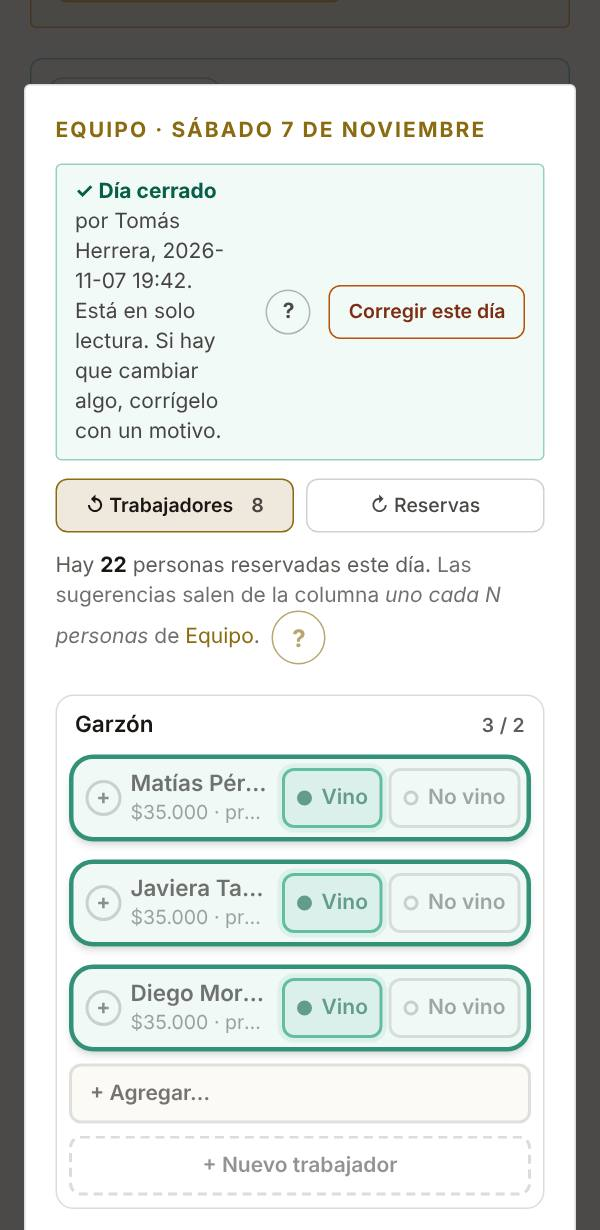
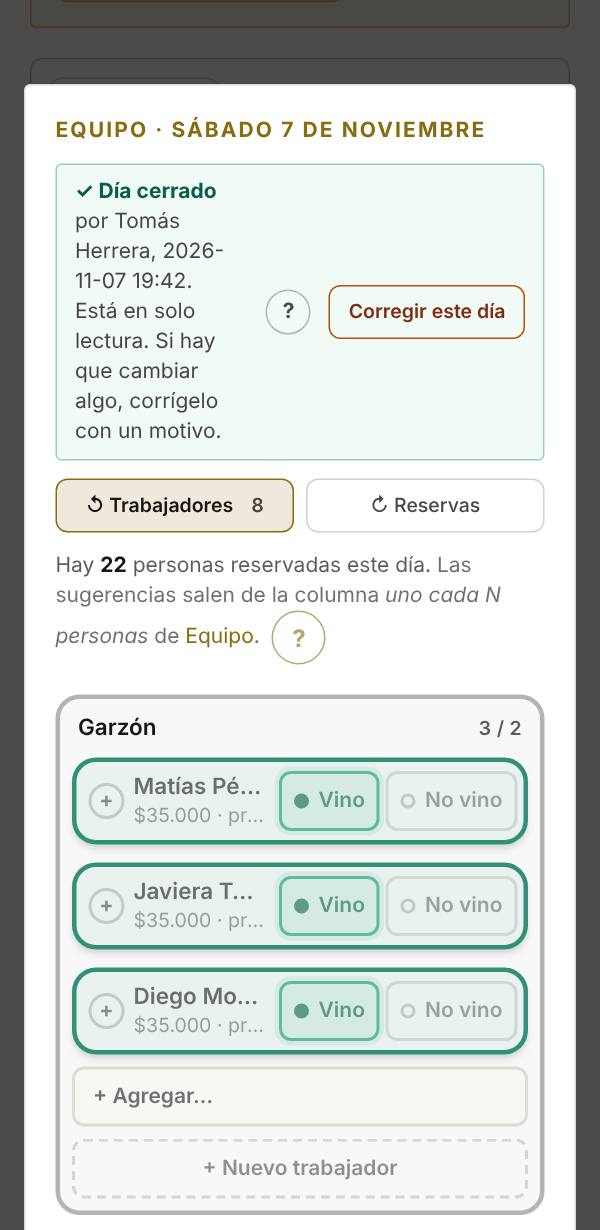
Los puestos de la ventana del equipo con el marco de grupo, y su cara Reservas con la tarjeta de las listas
marcoGrupo: 3px, más claro que la tarjeta y con el fondo apenas teñido, en
ámbar si falta gente. Es la ventana que se abre desde Turnos, Reservas y el
día. Las reservas de su otra cara usan marcoTarjeta, verde si vino y roja si
no vino.

Claude-Session: https://claude.ai/code/session_01SbCpLXRLiAYNdagAaPDDb9

Changed region(s): [[0.09, 0.5561, 0.93, 0.9886]]

diff --git a/panel/src/components/ReservasDelDia.tsx b/panel/src/components/ReservasDelDia.tsx
@@ -31,6 +31,7 @@ import { POR_DEFECTO_MENUS, type Menu } from '@/lib/menus';
 import Asistencia from './Asistencia';
 import PastillaPago from './PastillaPago';
 import IngresoFudo from './IngresoFudo';
+import { LISTA_TARJETAS, marcoTarjeta } from './TarjetaLista';
 
 /**
  * Un azulejo: el número grande arriba y qué es debajo. La misma forma que
@@ -207,12 +208,15 @@ export default function ReservasDelDia({
               botones compartieran fila con el nombre, el largo del nombre
               decidiría dónde quedan. */}
           <fieldset disabled={modo === 'bloqueado'} className="m-0 min-w-0 border-0 p-0">
-          <ul className="mt-2 space-y-2">
+          <ul className={`mt-2 ${LISTA_TARJETAS}`}>
             {delDia.map((r) => {
               const libero = !ocupaLugar(r);
               return (
+                // La misma tarjeta de las demás listas (`TarjetaLista`):
+                // verde si vino, roja si no vino.
                 <li key={r.fila}
-                  className={`rounded border border-hueso/15 bg-panel p-3 ${
+                  className={`${marcoTarjeta(false, r.asistencia === ASISTENCIA.vino ? 'verde'
+                    : r.asistencia === ASISTENCIA.noVino ? 'rojo' : 'normal', true)} p-3 ${
                     libero ? 'opacity-50' : ''}`}>
                   <div className="flex flex-wrap items-baseline justify-between gap-x-3">
                     <span className={`font-semibold ${libero ? 'line-through' : ''}`}>

diff --git a/panel/src/components/EquipoDialogo.tsx b/panel/src/components/EquipoDialogo.tsx
@@ -16,7 +16,7 @@
  * llamada directa a la API tiene que obedecer la misma regla.
  */
 import { useMemo, useState } from 'react';
-import { LISTA_TARJETAS, SignoAbrir, marcoTarjeta } from './TarjetaLista';
+import { LISTA_TARJETAS, SignoAbrir, marcoGrupo, marcoTarjeta } from './TarjetaLista';
 import AyudaCorta from './AyudaCorta';
 import Ayuda from './Ayuda';
 import Dialogo from './Dialogo';
@@ -575,8 +575,7 @@ export default function EquipoDialogo({
              pastilla *Faltan N* y el *+ Agregar…* en ámbar. Los completos
              quedan como estaban. */
           <div key={l.puesto} id={`puesto-${encodeURIComponent(l.puesto)}`}
-            className={`min-w-0 scroll-mt-4 rounded-xl p-2 sm:p-3 ${l.faltan > 0
-              ? 'border-2 border-ambar-fuerte/70 bg-ambar/5' : 'border border-hueso/15'}`}>
+            className={`min-w-0 scroll-mt-4 p-2 sm:p-3 ${marcoGrupo(l.faltan > 0)}`}>
             <div className="flex items-baseline justify-between gap-2">
               <h3 className="px-1 text-[15px] font-semibold">{l.puesto}</h3>
               <span className="flex shrink-0 items-center gap-1.5">

diff --git a/panel/src/components/TarjetaLista.tsx b/panel/src/components/TarjetaLista.tsx
@@ -36,6 +36,18 @@ export function marcoTarjeta(abierta: boolean, tono: TonoTarjeta = 'normal', ten
   }
 }
 
+/**
+ * **El marco de un grupo de tarjetas**: un puesto en la ventana del equipo del
+ * día (2026-11-21, lo pidió el cliente: *"los bordes de las tarjetas de los
+ * distintos puestos… también pueden ayudar a ordenar la vista"*). El mismo
+ * grosor de 3px, pero más claro y con el fondo apenas teñido, para que las
+ * tarjetas de adentro se lean encima. Con `falta`, en ámbar: el puesto que no
+ * alcanza se ve desde lejos.
+ */
+export function marcoGrupo(falta = false): string {
+  return `rounded-2xl border-[3px] ${falta ? 'border-ambar-fuerte/70 bg-ambar/5' : 'border-hueso/30 bg-hueso/[0.03]'}`;
+}
+
 /** El espacio entre una tarjeta y la siguiente: 12px, y 8px en el computador. */
 export const LISTA_TARJETAS = 'space-y-3 lg:space-y-2';
 

diff --git a/panel/CLAUDE.md b/panel/CLAUDE.md
@@ -66,6 +66,7 @@ revisan antes de cada cambio en esta carpeta.
   | Escribirle al cliente por WhatsApp | `BotonWhatsApp` (o `abrirWhatsApp()`), con el saludo de `saludoAlCliente()` |
   | Cuánto boletear: bruto, retención y neto | `CajaBoleta` (link personal e informe) |
   | Una tarjeta de una lista que se abre: el marco, el + / − y el pie *▴ Cerrar* | `marcoTarjeta`, `SignoAbrir`, `PieCerrar` y `LISTA_TARJETAS` de `TarjetaLista` (Informe, Equipo, Extras, Vendedores, Clientes, Productos, Recepción, las reservas del día y las ventanas del equipo y de extras del día) |
+  | Un grupo de tarjetas (un puesto en la ventana del equipo) | `marcoGrupo` de `TarjetaLista` |
 - **La ayuda siempre al día** (regla del cliente, 2026-11-13; está también
   en la raíz). Un cambio que altera algo que una ayuda describe la
   actualiza **en el mismo PR**. Cuenta como ayuda:
@@ -274,6 +275,15 @@ regla *un cambio de diseño se lleva a sus parecidos* (arriba).
   distintos: línea de 1px con un `+` suelto (Equipo, Extras, Clientes,
   Productos), 2px con círculo (Vendedores, Recepción, el día) y 3px (el
   informe).
+- **Los puestos de la ventana del equipo del día son un grupo** (lo pidió el
+  cliente el mismo día, con una foto: *"los bordes de las tarjetas de los
+  distintos puestos aún no siguen esa regla… pueden ayudar a ordenar la
+  vista"*): `marcoGrupo()`, el mismo grosor de 3px pero más claro y con el
+  fondo apenas teñido, para que las tarjetas de adentro se lean encima; el
+  puesto al que le falta gente, en ámbar como antes. Es la misma ventana
+  desde Turnos, desde Reservas y desde la página del día, y su cara
+  *Reservas* (`ReservasDelDia`) también usa la tarjeta, verde si vino y roja
+  si no vino.
 - **El pie *▴ Cerrar*** va en las fichas largas: Informe, Equipo, Extras,
   Vendedores, Clientes y Productos. En la Recepción no, porque la tarjeta
   termina en *Llegó / No vino*. Tampoco en las reservas del día ni en las
